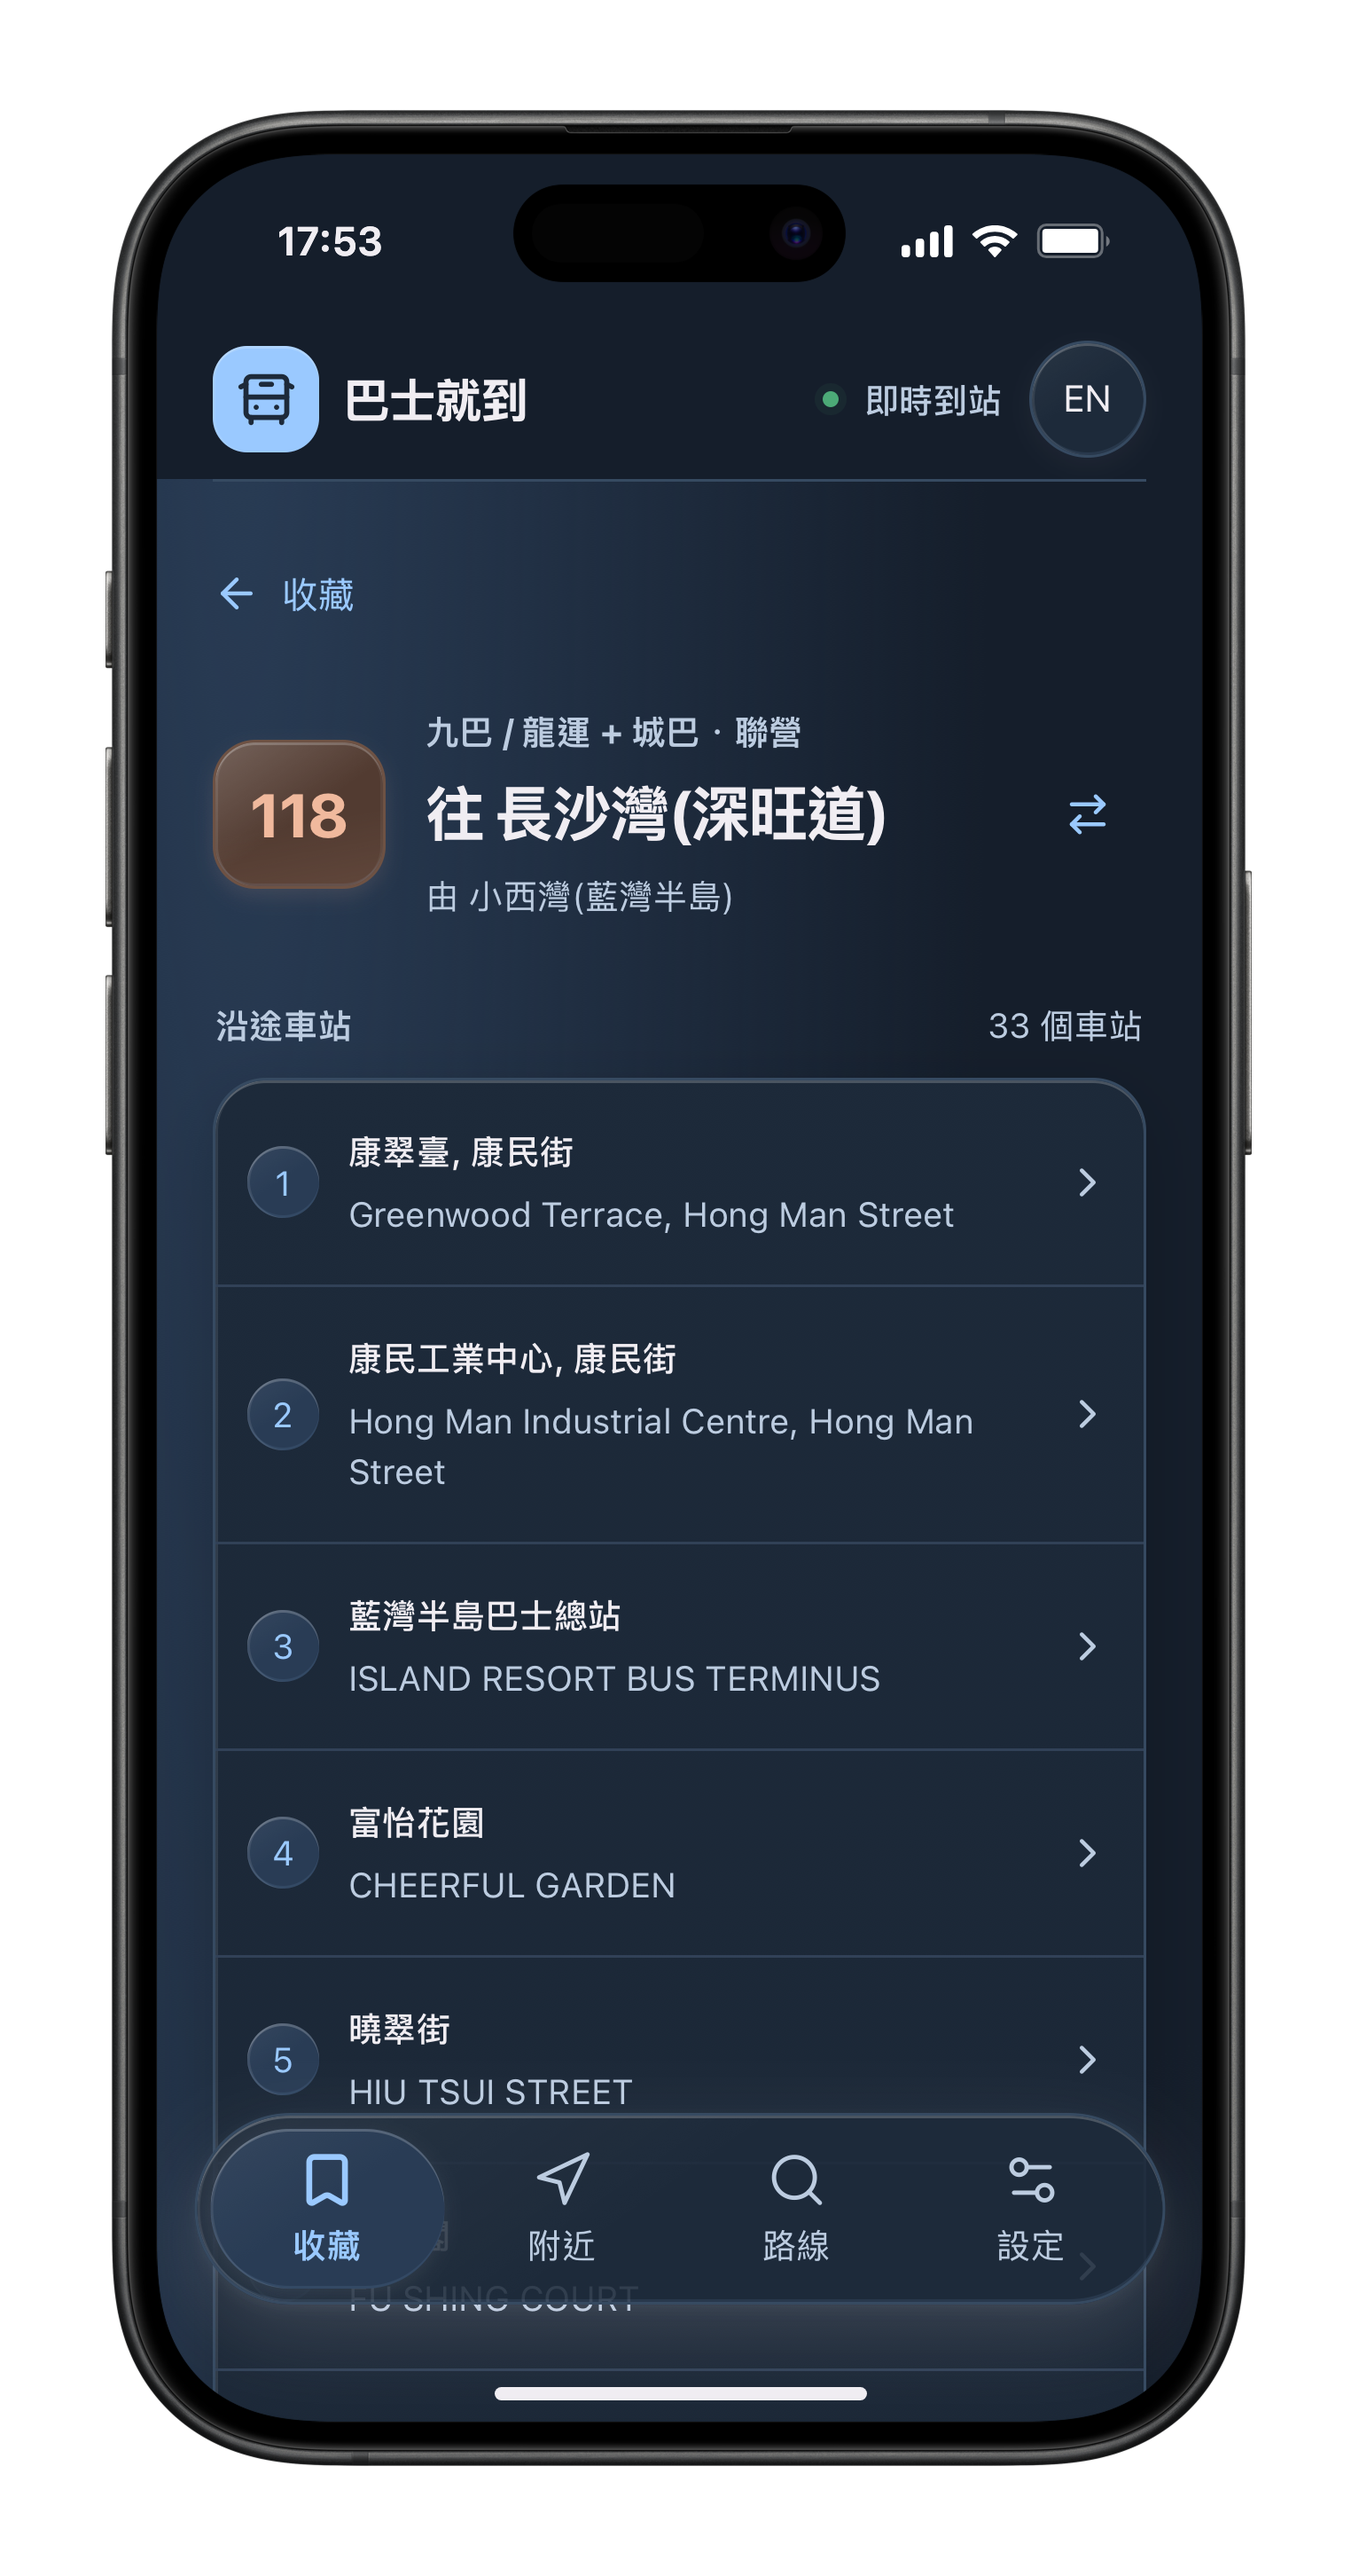
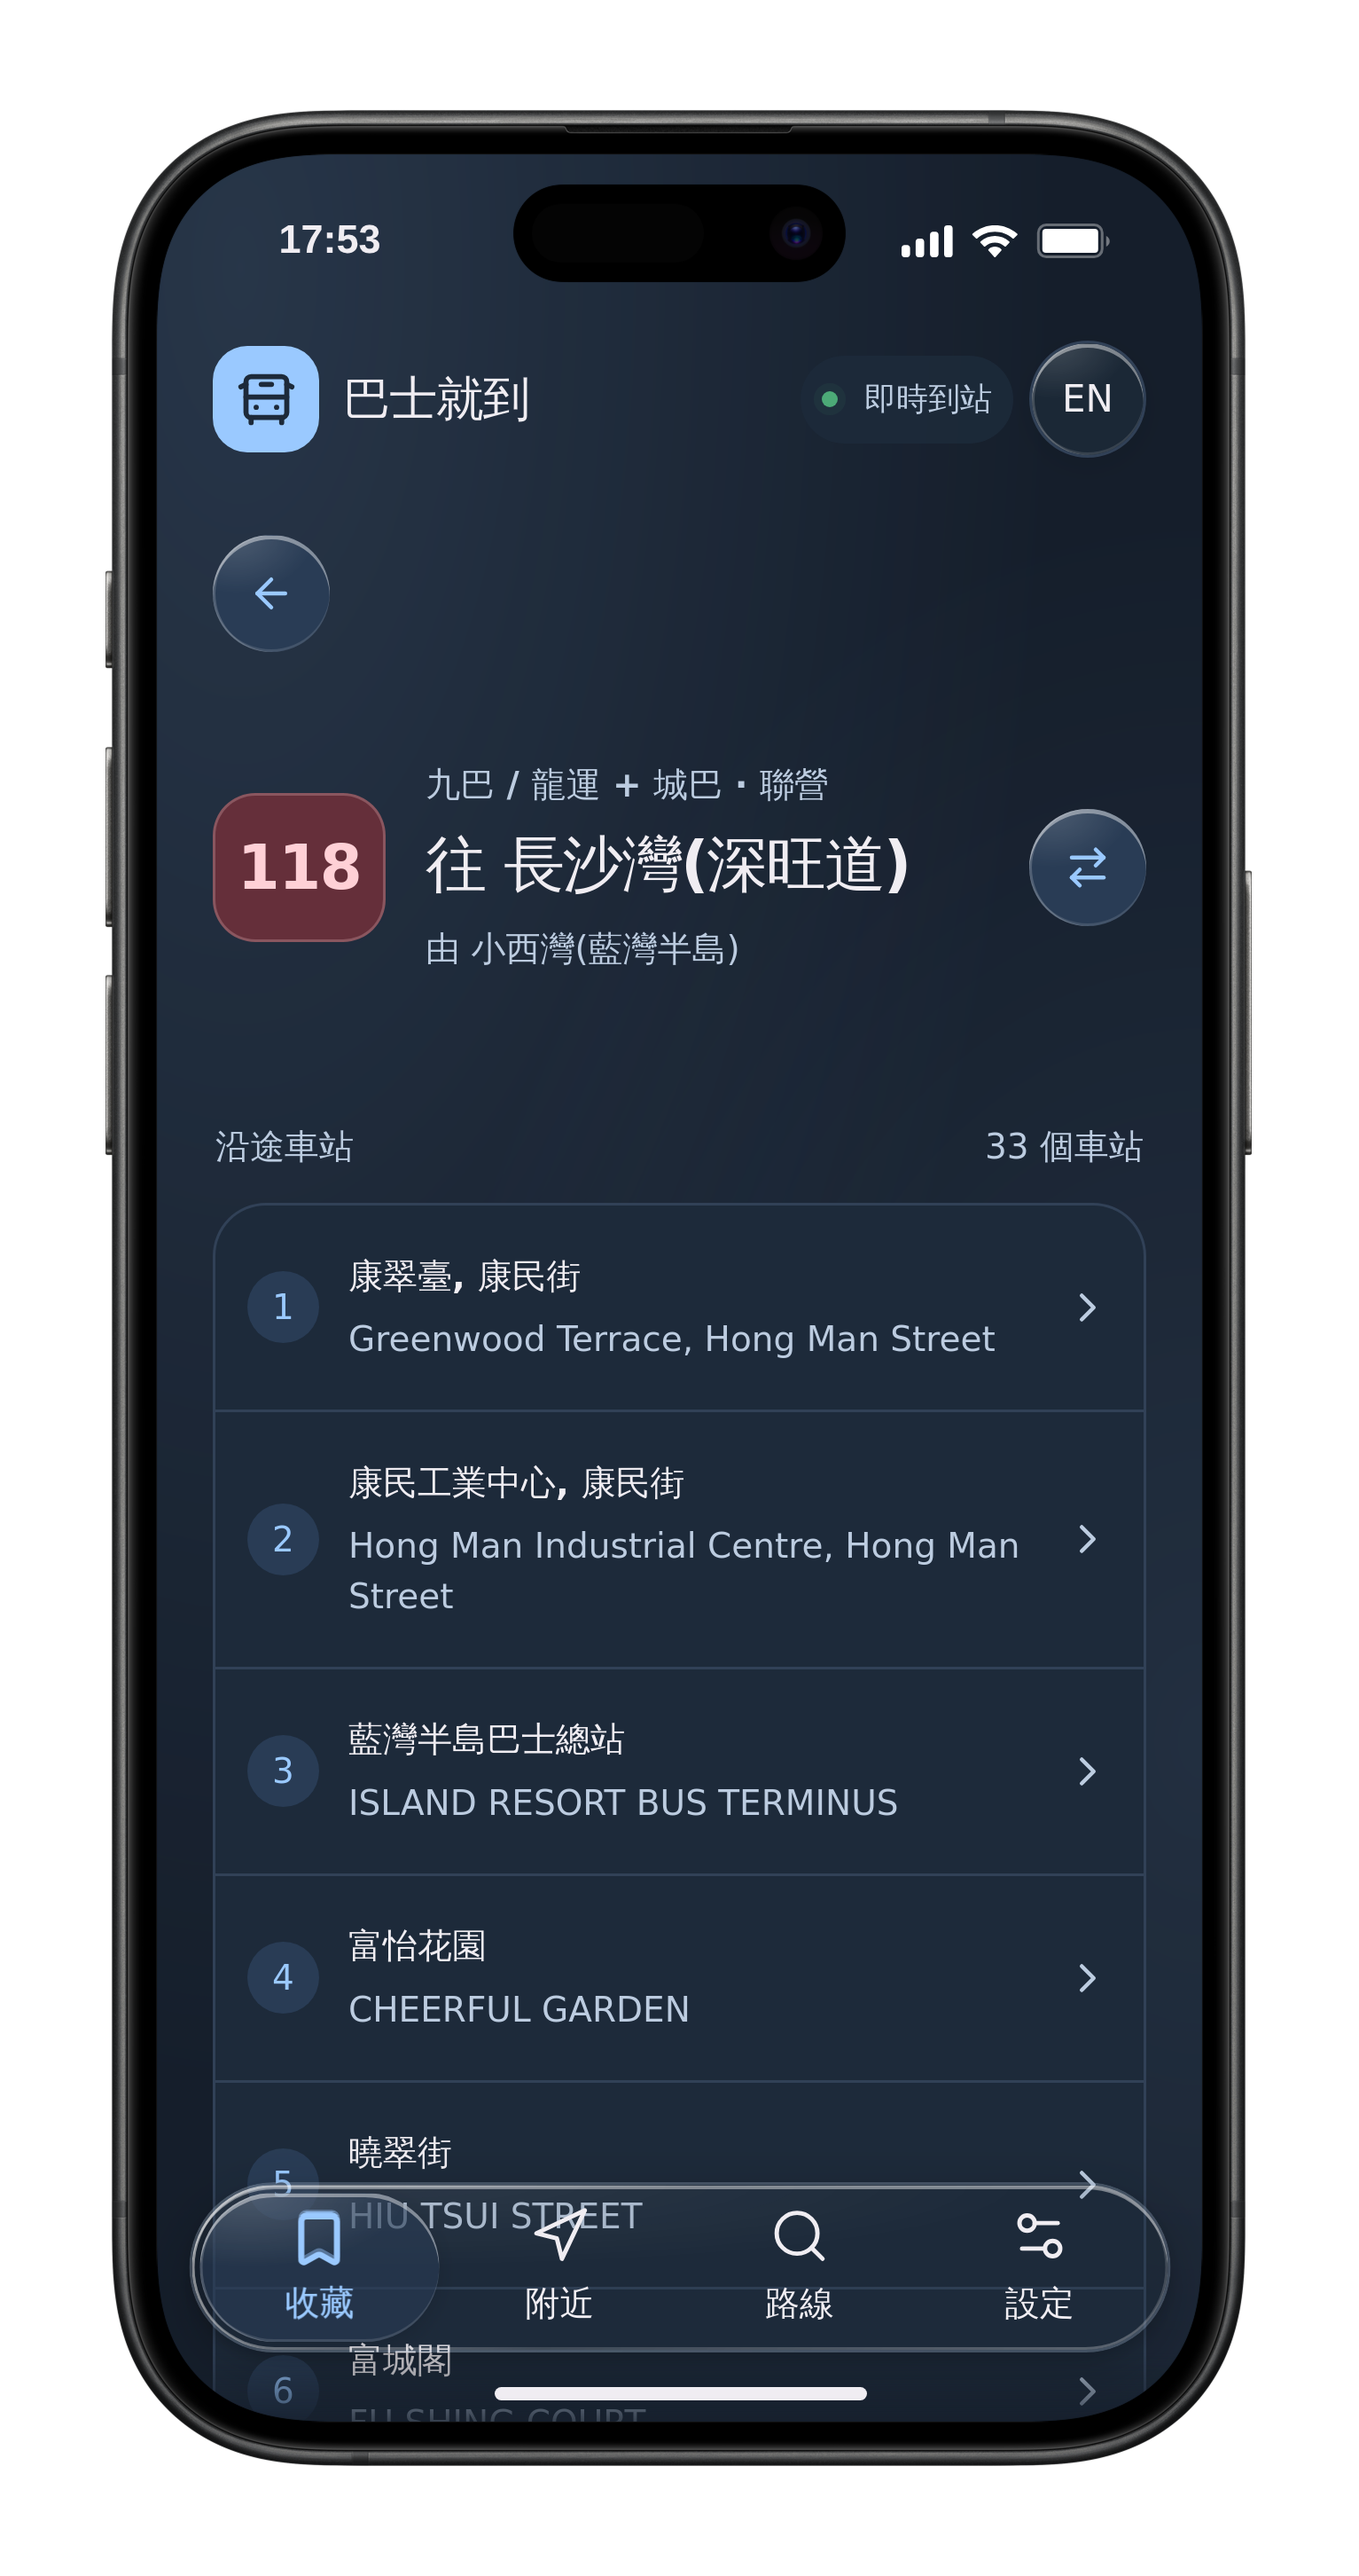
Update screenshots

diff --git a/docs/REQUIREMENTS-AND-STATUS.md b/docs/REQUIREMENTS-AND-STATUS.md
@@ -103,10 +103,13 @@ bookmarks and route/ETA behavior. Lighthouse scored 100 on all five screens in b
 appearance; all-theme axe and token-contrast checks passed in both engines. Desktop Chromium and mobile WebKit
 screenshots were reviewed in light/dark appearance. Additional checks exercised opaque higher-contrast chrome
 in both engines, and reduced transparency, forced-colour selection and keyboard navigation in Chromium.
-The published README includes four framed iPhone 17 previews at 402×874 logical pixels (3×), Traditional Chinese,
+The published README includes four framed iPhone 17 previews at 393×852 logical pixels (3×), Traditional Chinese,
 blue, and both appearances. Route 8P/118 records, stops and ETAs were captured from public operator APIs on
 17 October at approximately 17:53 HKT, with official TD joint membership for 118. The renderer replays the dated
-responses; the preview ETA values are not current service predictions. Sources and reproduction commands are in
+responses; the preview ETA values are not current service predictions. All four previews were regenerated from
+the current UI and visually reviewed on 23 October 2026. Refresh verification passed formatting, lint,
+119 unit tests, toolchain probes, production build and 107 browser tests, with one intentional
+Chromium-only Lighthouse skip in WebKit. Sources and reproduction commands are in
 [development](DEVELOPMENT.md#generated-output-and-regression-fixtures).
 Production offline smoke passed in Chromium and WebKit, including cached reload, bookmark/search preservation,
 the blue default for older preferences and the blue manifest. These checks and the README previews use browser

diff --git a/docs/DEVELOPMENT.md b/docs/DEVELOPMENT.md
@@ -254,7 +254,7 @@ run them only when current operator evidence is needed. Keep durable findings an
 Replace obsolete status summaries instead of appending a history of every test run; Git retains earlier versions.
 
 The intentionally published README screenshots are an exception: keep `docs/images/iphone17-*.png` under version
-control. `scripts/render-readme.mjs` renders the real UI in isolated WebKit contexts at 402×874 CSS pixels and 3×
+control. `scripts/render-readme.mjs` renders the real UI in isolated WebKit contexts at 393×852 CSS pixels and 3×
 scale, Traditional Chinese and blue, in both appearances. It substitutes 62px/34px top/bottom safe-area values only
 in intercepted development stylesheets, then renders an illustrative iPhone shell/status bar around the capture.
 The app clock is fixed to the dated capture so the original ETA timestamps remain meaningful. It never edits
